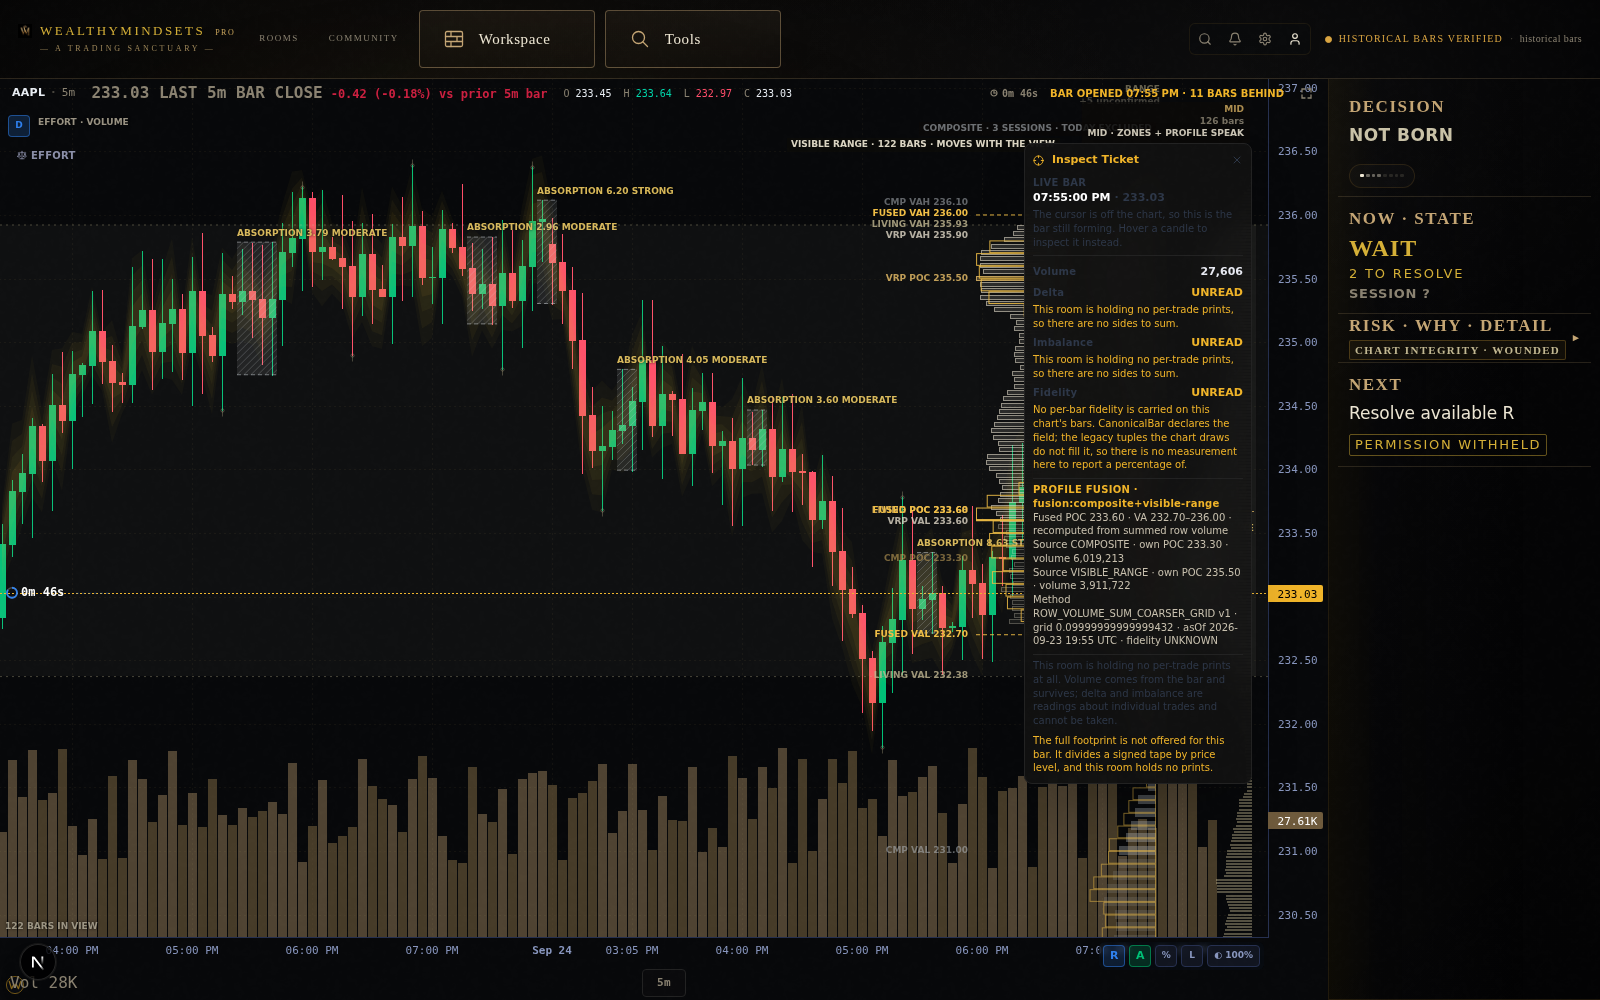
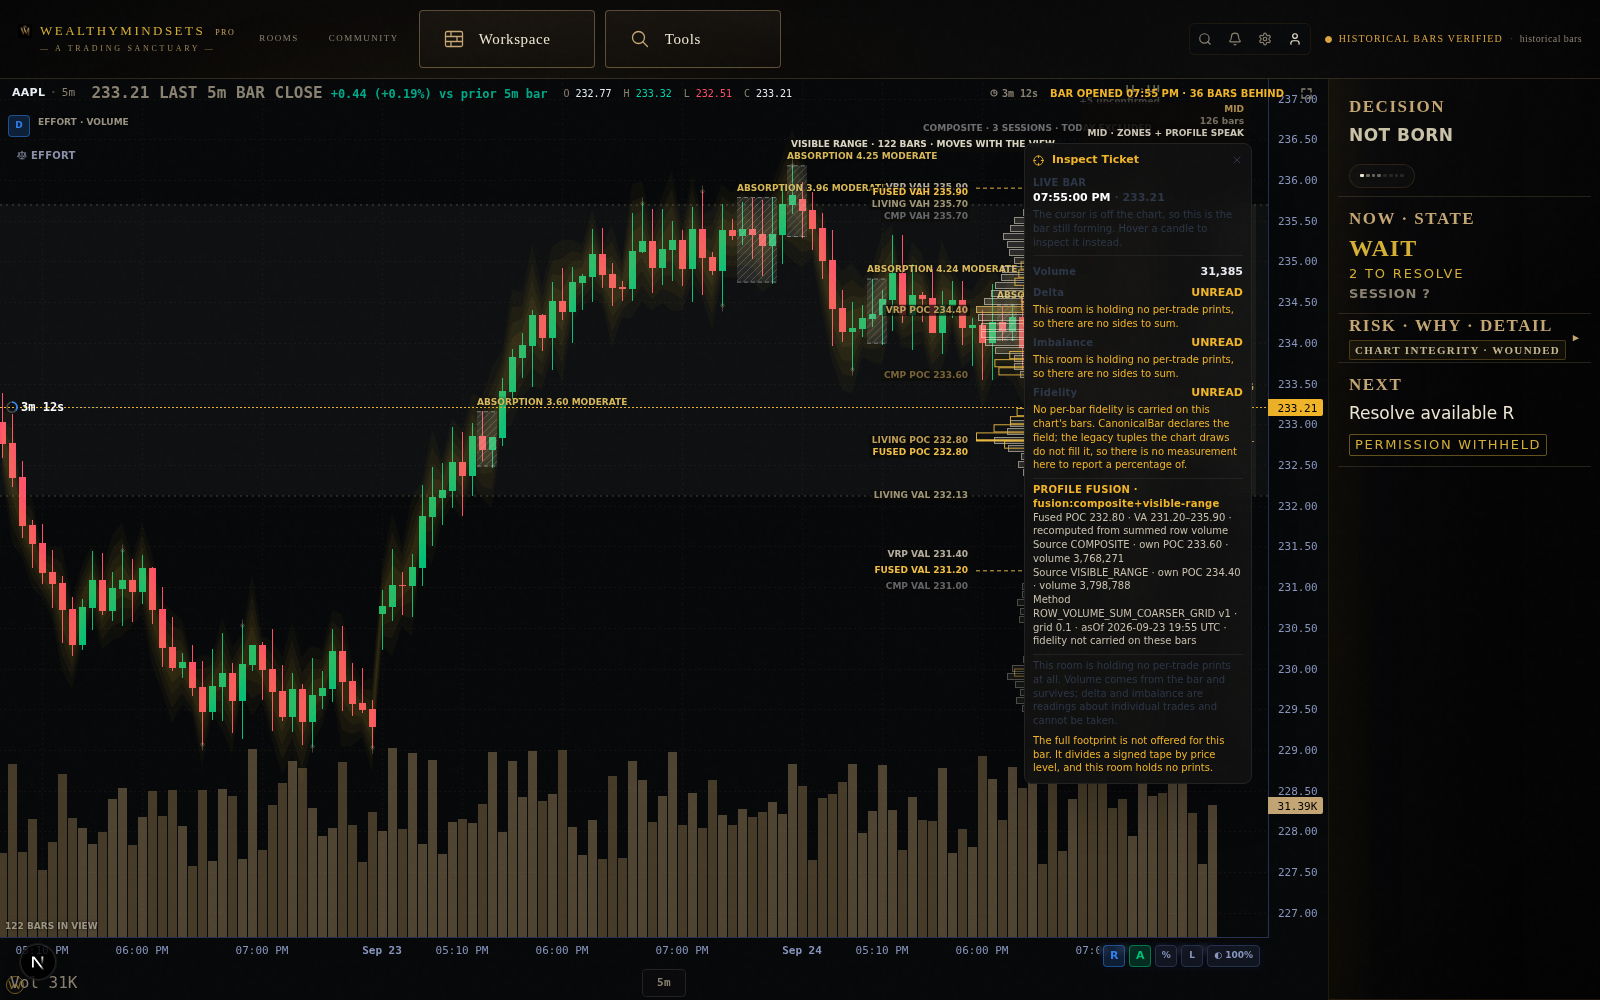
Profile stack labels: one clear step apart, on a quiet backing
FUSED POC printed tight against a source POC at the same price. The label
step widens 11→12px and each label gets a dark backing so it never bleeds
into the histogram or its neighbour.

Claude-Session: https://claude.ai/code/session_01Gntm2WzCaW5uQMS2aMojoZ

diff --git a/src/components/chart/MainChart.tsx b/src/components/chart/MainChart.tsx
@@ -9826,15 +9826,20 @@ export function MainChart({ symbol, timeframe, setTimeframe, footprintType, foot
           // inverts the price order the column exists to show.
           let yy = y;
           for (let guard = 0; guard < 8; guard++) {
-            const hit = stackLabelYs.find(t => Math.abs(t - yy) < 11);
+            const hit = stackLabelYs.find(t => Math.abs(t - yy) < 12);
             if (hit == null) break;
-            yy = y < hit ? hit - 11 : hit + 11;
+            yy = y < hit ? hit - 12 : hit + 12;
           }
           stackLabelYs.push(yy);
           ctx.save();
           ctx.font = "600 9px ui-sans-serif, system-ui, sans-serif";
           ctx.textAlign = "right";
           ctx.textBaseline = "middle";
+          // A quiet backing so a label never bleeds into the histogram bars
+          // or a neighbour's label one step away.
+          const lwS = ctx.measureText(text).width;
+          ctx.fillStyle = "rgba(11,10,8,0.72)";
+          ctx.fillRect(stackPlan.labelRight - lwS - 3, yy - 5.5, lwS + 5, 11);
           ctx.fillStyle = ink;
           ctx.fillText(text, stackPlan.labelRight, yy);
           ctx.restore();
